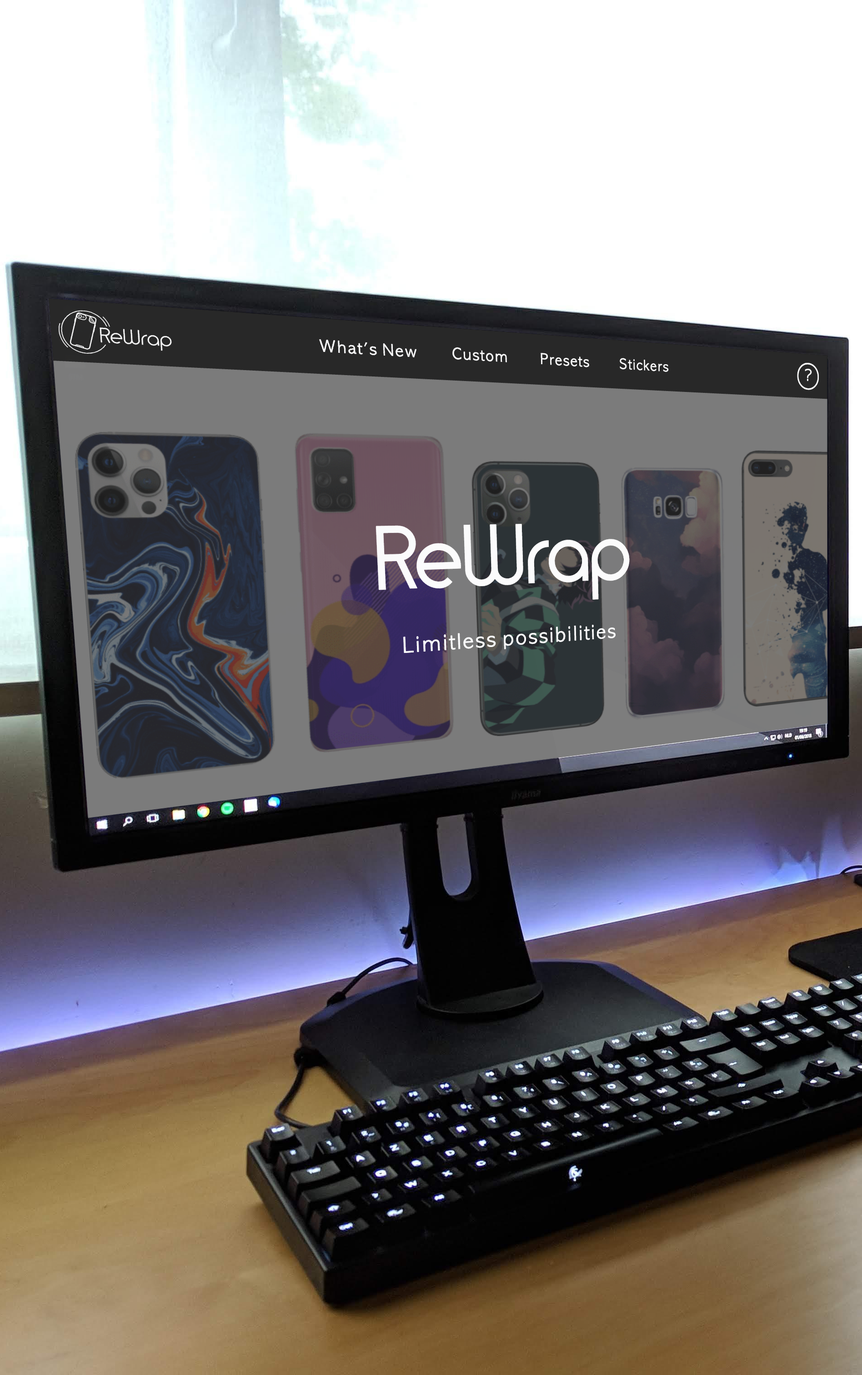
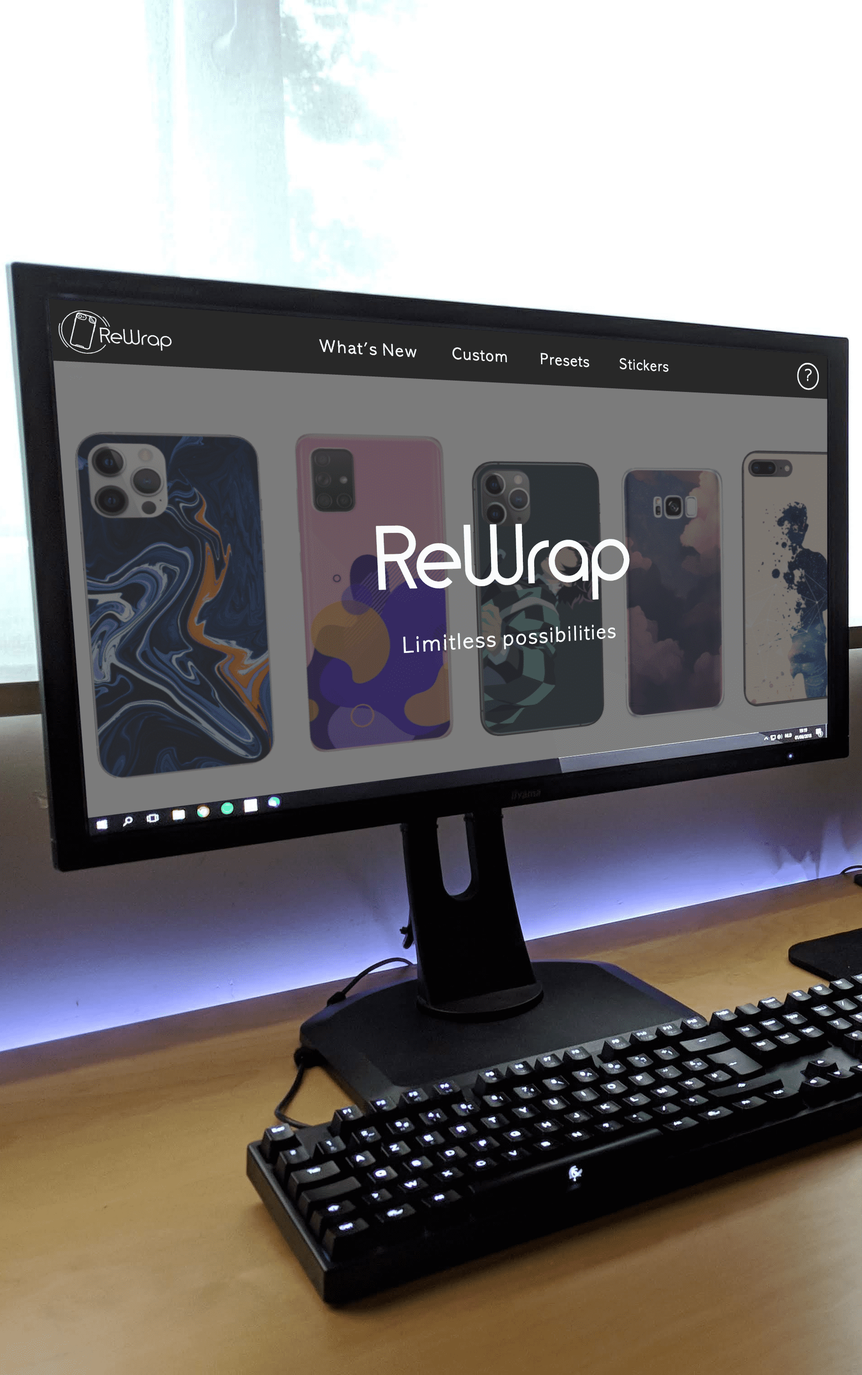
Optimised images
- Parallax images on home screen have been optimised to improve load time.

diff --git a/home_styles.css b/home_styles.css
@@ -199,7 +199,7 @@
 }
 #imgDiv4 {
     /* Stickers */
-    background-image: url(assets/stickers_phone_view.png);
+    background-image: url(ui_images/stickers_phone_view_optimised.png);
 }
 .textDiv {
     display: flex;
